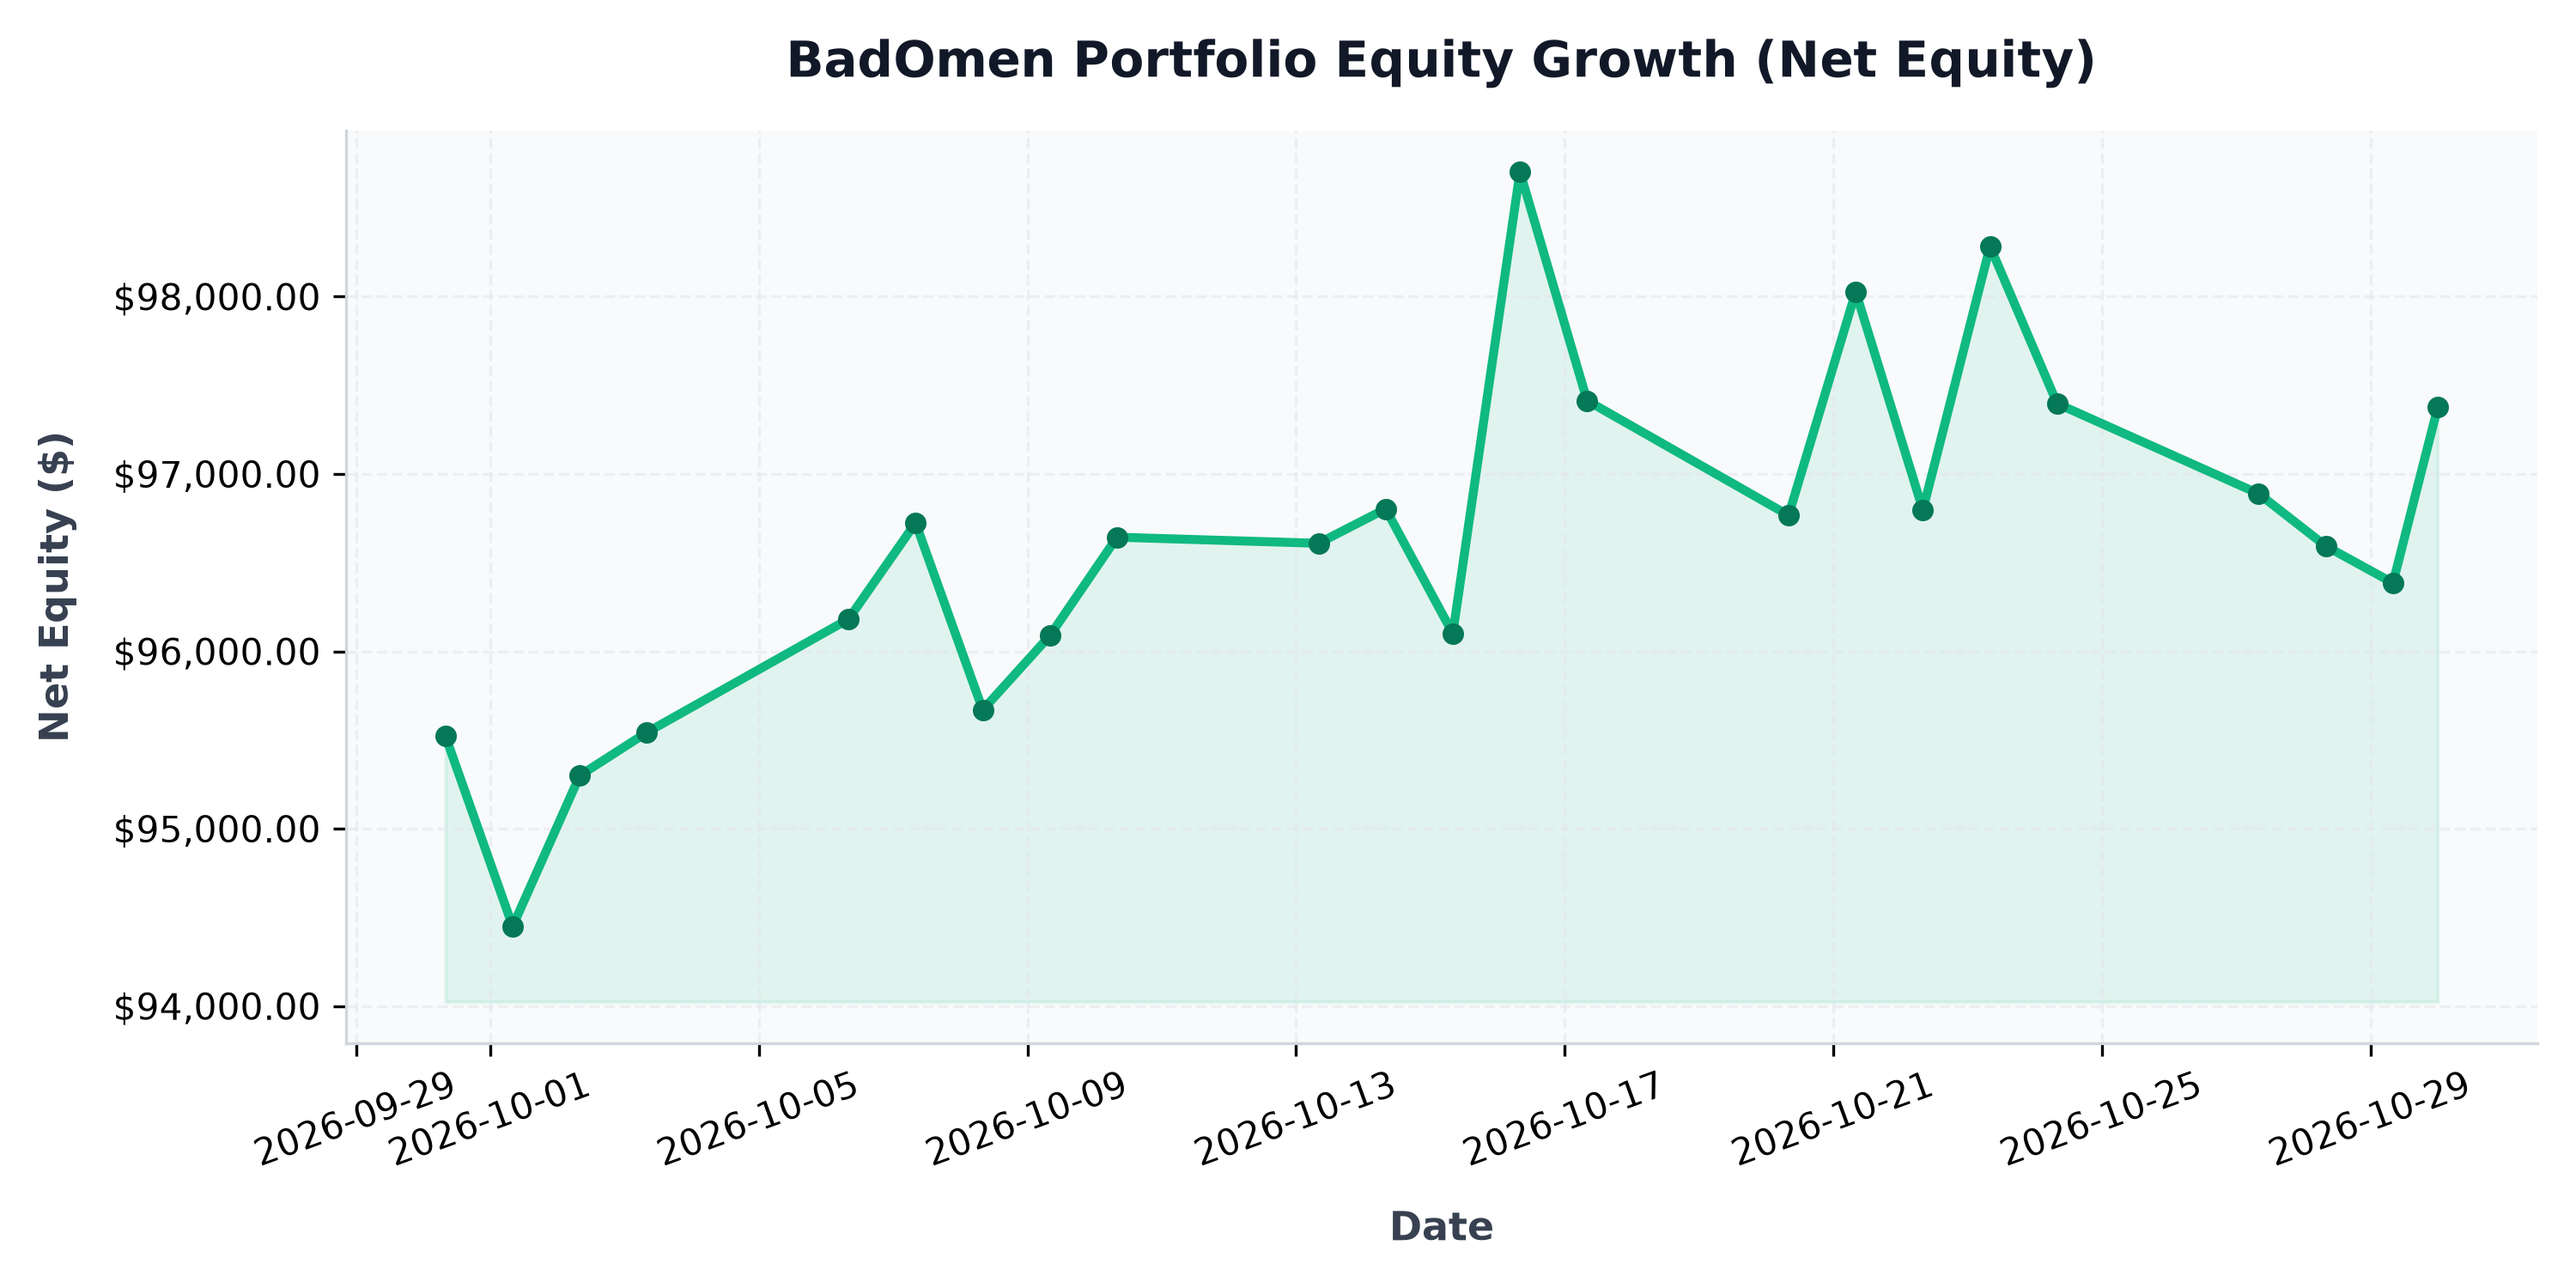
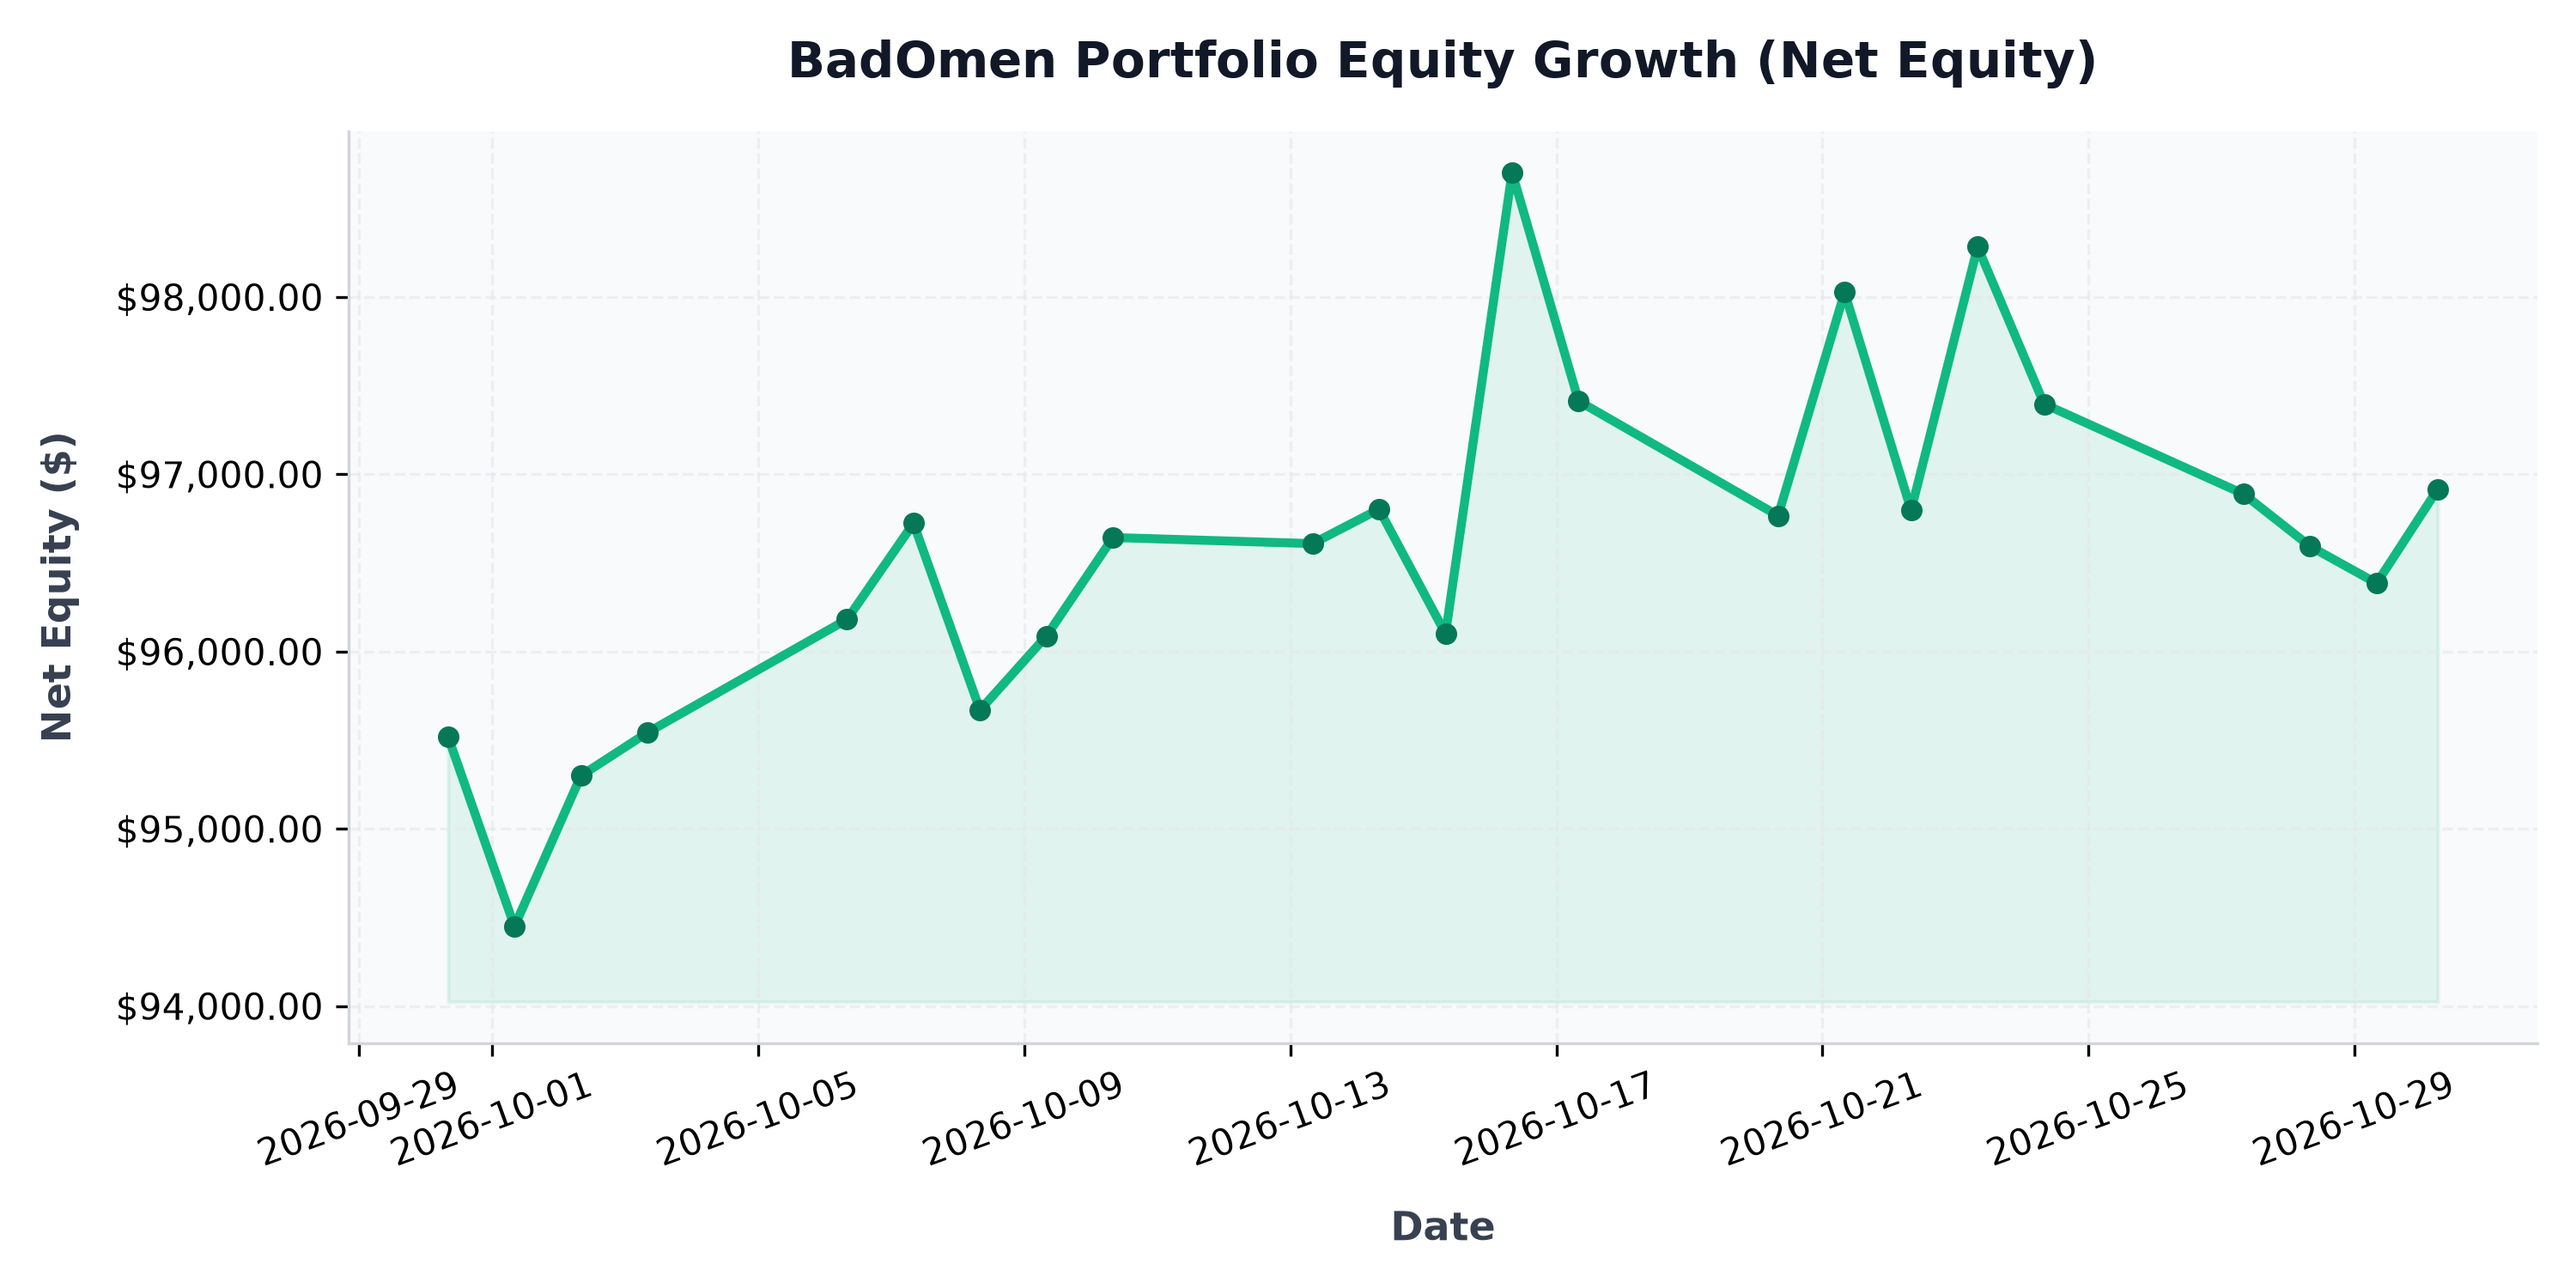
auto: daily portfolio status update - 2026-10-30 06:05:13

diff --git a/src/content/posts/portfolio-performance.md b/src/content/posts/portfolio-performance.md
@@ -1,6 +1,6 @@
 ---
 title: "BadOmen Algorithmic Portfolio Performance & PnL Report"
-pubDatetime: 2026-10-30T00:00:14.086246+08:00
+pubDatetime: 2026-10-30T06:05:13.156164+08:00
 description: "Live performance metrics, active holdings, and historic equity curve for the BadOmen automated paper trading portfolio."
 featured: true
 draft: false
@@ -16,11 +16,11 @@ Welcome to the live performance dashboard for **BadOmen**, our automated algorit
 ## 📊 Portfolio Summary
 | Performance Metric | Value | description |
 | :--- | :--- | :--- |
-| **Net Portfolio Equity** | **$97,375.78** | Total current liquidation value of cash and stock holdings |
-| **Total Unrealized P&L** | 🔴 **$-3,720.50** (-3.68%) | Total return of current open holdings |
+| **Net Portfolio Equity** | **$96,917.25** | Total current liquidation value of cash and stock holdings |
+| **Total Unrealized P&L** | 🔴 **$-4,179.52** (-4.13%) | Total return of current open holdings |
 | **Cash Balance** | $24,269.00 | Idle reserve currency available for limit orders |
-| **Buying Power** | $301,774.99 | Margin-backed buying power for entry allocations |
-| **Report Updated** | `2026-10-30 00:00:14 (SGT)` | Timestamp of daily execution and sync run |
+| **Buying Power** | $300,491.10 | Margin-backed buying power for entry allocations |
+| **Report Updated** | `2026-10-30 06:05:13 (SGT)` | Timestamp of daily execution and sync run |
 
 ## 📈 Net Equity Growth Curve
 The chart below illustrates the historical performance of the account starting from our baseline capital funding of $100,000.00.
@@ -35,35 +35,35 @@ The chart below illustrates the exposure of our currently held active positions 
 ## 💼 Current Position Holdings
 | Ticker | Industry | Shares Owned | Average Entry Cost | Current Price | Unrealized P&L | Return (%) |
 | :--- | :--- | :--- | :--- | :--- | :--- | :--- |
-| **AN** | Auto & Truck Dealerships | 5 | $188.51 | $168.69 | 🔴 $-99.09 | -10.51% |
-| **AVGO** | Semiconductors | 1 | $385.71 | $346.01 | 🔴 $-39.70 | -10.29% |
-| **BIRK** | Footwear & Accessories | 407 | $37.32 | $33.31 | 🔴 $-1,631.14 | -10.74% |
-| **BLBD** | Farm & Heavy Construction Machinery | 231 | $65.52 | $57.16 | 🔴 $-1,930.23 | -12.75% |
-| **BVN** | Other Precious Metals & Mining | 32 | $31.88 | $27.64 | 🔴 $-135.52 | -13.29% |
-| **CELH** | Beverages - Non-Alcoholic | 33 | $29.71 | $28.17 | 🔴 $-50.91 | -5.19% |
-| **CPRI** | Luxury Goods | 1042 | $14.55 | $15.72 | 🟢 +$1,222.47 | +8.06% |
-| **DUOL** | Software - Application | 14 | $131.04 | $134.65 | 🟢 +$50.48 | +2.75% |
-| **FIS** | Information Technology Services | 23 | $41.79 | $37.07 | 🔴 $-108.56 | -11.29% |
-| **GDDY** | Software - Infrastructure | 6 | $76.21 | $105.39 | 🟢 +$175.08 | +38.29% |
-| **GDS** | Information Technology Services | 30 | $32.77 | $23.09 | 🔴 $-290.40 | -29.54% |
-| **GGAL** | Banks - Regional | 17 | $56.04 | $33.95 | 🔴 $-375.61 | -39.43% |
-| **GOOGL** | Internet Content & Information | 3 | $319.44 | $286.85 | 🔴 $-97.77 | -10.20% |
-| **GPI** | Auto & Truck Dealerships | 3 | $316.15 | $258.45 | 🔴 $-173.10 | -18.25% |
-| **HUBS** | Software - Application | 8 | $221.18 | $237.66 | 🟢 +$131.83 | +7.45% |
-| **ITRI** | Scientific & Technical Instruments | 12 | $81.80 | $92.40 | 🟢 +$127.20 | +12.96% |
-| **KBR** | Engineering & Construction | 27 | $36.23 | $39.30 | 🟢 +$82.94 | +8.48% |
-| **NESR** | Oil & Gas Equipment & Services | 34 | $28.74 | $21.75 | 🔴 $-237.83 | -24.34% |
-| **NU** | Banks - Regional | 57 | $11.60 | $12.06 | 🟢 +$26.59 | +4.02% |
-| **ON** | Semiconductors | 10 | $90.45 | $75.64 | 🔴 $-148.15 | -16.38% |
-| **ORCL** | Software - Infrastructure | 5 | $181.95 | $140.41 | 🔴 $-207.68 | -22.83% |
-| **PATH** | Software - Infrastructure | 38 | $10.25 | $13.71 | 🟢 +$131.29 | +33.71% |
-| **PYPL** | Credit Services | 17 | $56.05 | $57.55 | 🟢 +$25.50 | +2.68% |
-| **QCOM** | Semiconductors | 15 | $193.68 | $183.60 | 🔴 $-151.27 | -5.21% |
-| **SMCI** | Computer Hardware | 22 | $29.25 | $35.56 | 🟢 +$138.82 | +21.57% |
-| **SRE** | Utilities - Diversified | 57 | $84.75 | $85.98 | 🟢 +$70.26 | +1.45% |
-| **T** | Telecom Services | 47 | $20.85 | $21.04 | 🟢 +$8.93 | +0.91% |
-| **WEN** | Restaurants | 257 | $8.02 | $7.04 | 🔴 $-252.82 | -12.26% |
-| **ZG** | Internet Content & Information | 31 | $31.35 | $31.93 | 🟢 +$17.88 | +1.84% |
+| **AN** | Auto & Truck Dealerships | 5 | $188.51 | $169.34 | 🔴 $-95.84 | -10.17% |
+| **AVGO** | Semiconductors | 1 | $385.71 | $335.25 | 🔴 $-50.46 | -13.08% |
+| **BIRK** | Footwear & Accessories | 407 | $37.32 | $33.41 | 🔴 $-1,590.44 | -10.47% |
+| **BLBD** | Farm & Heavy Construction Machinery | 231 | $65.52 | $56.35 | 🔴 $-2,117.34 | -13.99% |
+| **BVN** | Other Precious Metals & Mining | 32 | $31.88 | $27.59 | 🔴 $-137.12 | -13.44% |
+| **CELH** | Beverages - Non-Alcoholic | 33 | $29.71 | $27.81 | 🔴 $-62.70 | -6.40% |
+| **CPRI** | Luxury Goods | 1042 | $14.55 | $15.70 | 🟢 +$1,196.42 | +7.89% |
+| **DUOL** | Software - Application | 14 | $131.04 | $132.00 | 🟢 +$13.38 | +0.73% |
+| **FIS** | Information Technology Services | 23 | $41.79 | $37.42 | 🔴 $-100.60 | -10.47% |
+| **GDDY** | Software - Infrastructure | 6 | $76.21 | $105.89 | 🟢 +$178.08 | +38.95% |
+| **GDS** | Information Technology Services | 30 | $32.77 | $22.95 | 🔴 $-294.60 | -29.97% |
+| **GGAL** | Banks - Regional | 17 | $56.04 | $33.73 | 🔴 $-379.26 | -39.81% |
+| **GOOGL** | Internet Content & Information | 3 | $319.44 | $281.95 | 🔴 $-112.47 | -11.74% |
+| **GPI** | Auto & Truck Dealerships | 3 | $316.15 | $259.97 | 🔴 $-168.54 | -17.77% |
+| **HUBS** | Software - Application | 8 | $221.18 | $235.00 | 🟢 +$110.55 | +6.25% |
+| **ITRI** | Scientific & Technical Instruments | 12 | $81.80 | $93.91 | 🟢 +$145.32 | +14.80% |
+| **KBR** | Engineering & Construction | 27 | $36.23 | $38.32 | 🟢 +$56.35 | +5.76% |
+| **NESR** | Oil & Gas Equipment & Services | 34 | $28.74 | $21.43 | 🔴 $-248.54 | -25.44% |
+| **NU** | Banks - Regional | 57 | $11.60 | $11.88 | 🟢 +$16.31 | +2.47% |
+| **ON** | Semiconductors | 10 | $90.45 | $73.00 | 🔴 $-174.55 | -19.30% |
+| **ORCL** | Software - Infrastructure | 5 | $181.95 | $135.00 | 🔴 $-234.75 | -25.80% |
+| **PATH** | Software - Infrastructure | 38 | $10.25 | $13.50 | 🟢 +$123.45 | +31.69% |
+| **PYPL** | Credit Services | 17 | $56.05 | $57.53 | 🟢 +$25.16 | +2.64% |
+| **QCOM** | Semiconductors | 15 | $193.68 | $178.82 | 🔴 $-222.97 | -7.67% |
+| **SMCI** | Computer Hardware | 22 | $29.25 | $33.24 | 🟢 +$87.78 | +13.64% |
+| **SRE** | Utilities - Diversified | 57 | $84.75 | $85.89 | 🟢 +$64.84 | +1.34% |
+| **T** | Telecom Services | 47 | $20.85 | $21.10 | 🟢 +$11.75 | +1.20% |
+| **WEN** | Restaurants | 257 | $8.02 | $7.12 | 🔴 $-232.26 | -11.26% |
+| **ZG** | Internet Content & Information | 31 | $31.35 | $31.79 | 🟢 +$13.54 | +1.39% |
 
 ## 🔴 Recent Realized Trades
 | Ticker | Shares Sold | Entry Price | Exit Price | Strategy Trigger | Realized Return | Exit Date |
